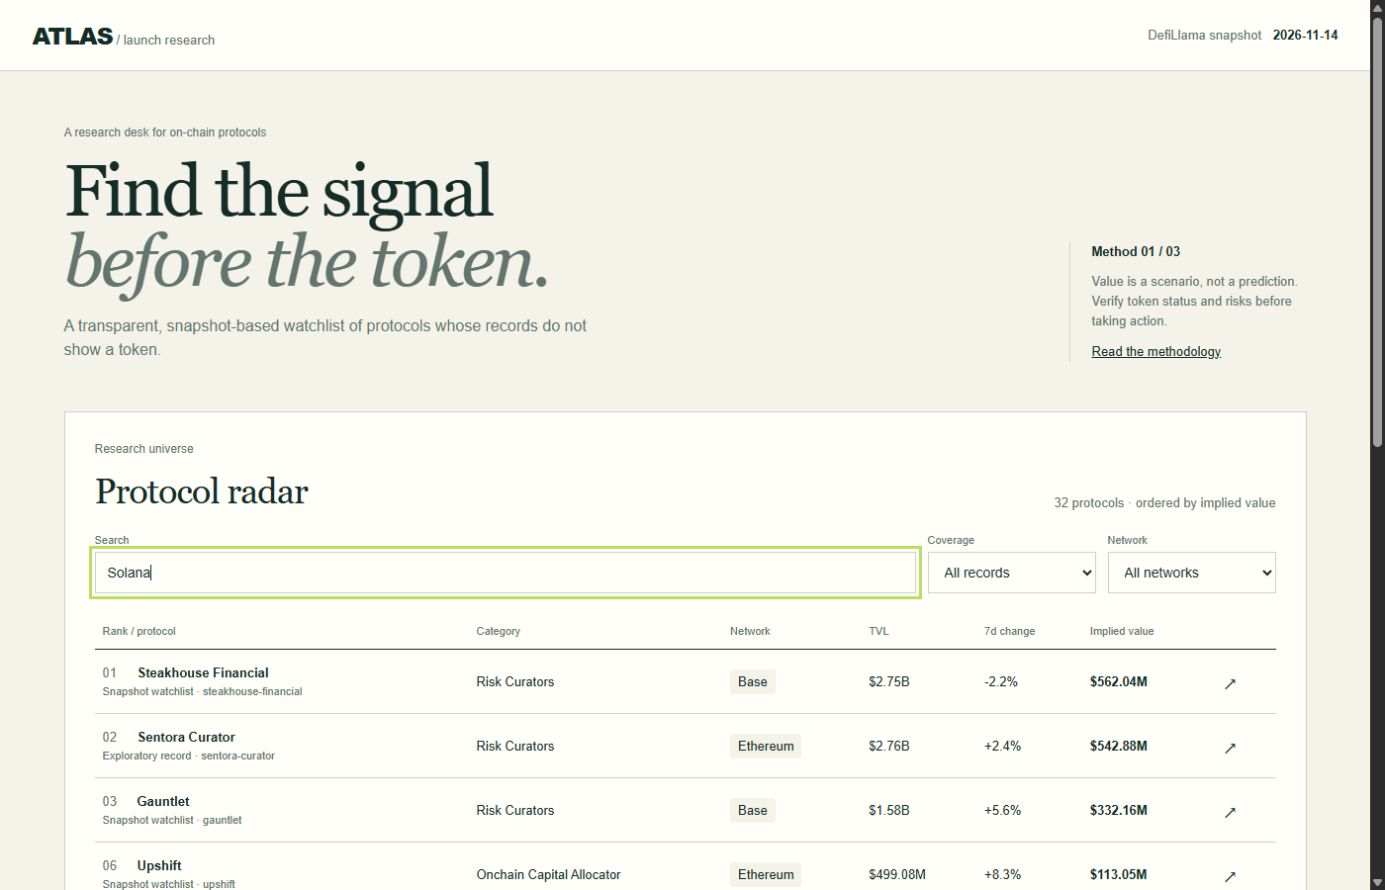
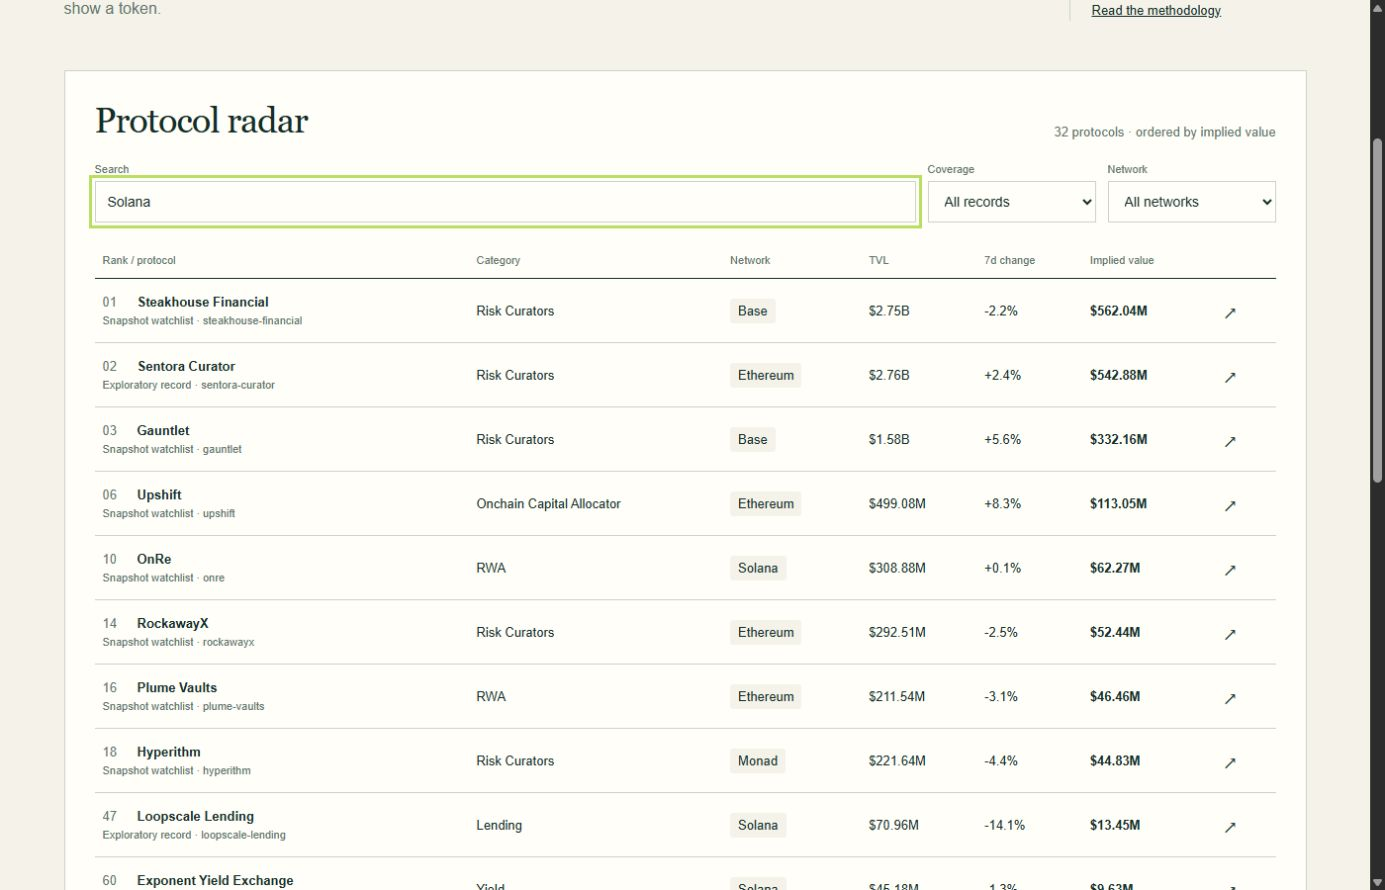
Polish research views and connect submission wallet

diff --git a/dashboard/app.css b/dashboard/app.css
@@ -1,3 +1,5 @@
-/* hallmark: app screen; editorial research desk; manual direction */
+/* Hallmark · shape: app screen · genre: editorial · theme: manual · hero: index · nav: compact · footer: methodology · v2.0.0 */
 /* critique: keep model uncertainty visible and interactions direct. */
-:root{--ink:#152d29;--paper:#f4f2e9;--surface:#fffef8;--muted:#62756e;--line:#cbd4c9;--accent:#b8df62;--dark:#0d2925;--white:#fff;--font:Arial,sans-serif;--serif:Georgia,serif}*{box-sizing:border-box}html,body{margin:0;overflow-x:clip}body{background:var(--paper);color:var(--ink);font-family:var(--font)}a{color:inherit}header{height:72px;border-bottom:1px solid var(--line);display:flex;align-items:center;justify-content:space-between;padding:0 max(32px,calc((100% - 1320px)/2));background:var(--surface)}.brand{font-weight:800;letter-spacing:-1px;font-size:24px;text-decoration:none}.brand span{font-size:13px;font-weight:400;letter-spacing:0;color:var(--muted)}.header-right{font-size:13px;color:var(--muted)}.header-right strong{color:var(--ink);margin-left:8px}main{max-width:1320px;margin:auto;padding:0 32px}.intro{display:grid;grid-template-columns:1fr 240px;gap:40px;padding:55px 0 50px;align-items:end}.label{font-size:12px;color:var(--muted);margin:0 0 16px}h1,h2,p{margin-top:0}h1{font-family:var(--serif);font-size:clamp(48px,5.2vw,76px);line-height:.98;font-weight:400;letter-spacing:-3px;margin-bottom:18px;overflow-wrap:break-word;min-width:0}h1 em{font-weight:400;color:var(--muted)}.lede{font-size:16px;color:var(--muted);max-width:570px;margin:0;line-height:1.5}.intro-side{border-left:1px solid var(--line);padding-left:22px;color:var(--muted);font-size:13px;line-height:1.55}.intro-side span{color:var(--ink);font-weight:bold}.intro-side p{margin:10px 0}.intro-side a{color:var(--ink)}.workspace{background:var(--surface);border:1px solid var(--line);padding:30px}.section-head{display:flex;justify-content:space-between;align-items:end;margin-bottom:24px}h2{font:400 36px/1.1 var(--serif);letter-spacing:-1px;margin-bottom:0}.count{font-size:13px;color:var(--muted)}.toolbar{display:flex;gap:12px;padding-bottom:20px}.toolbar label{font-size:11px;color:var(--muted);display:flex;flex-direction:column;gap:6px}.search{flex:1}input,select{border:1px solid var(--line);background:var(--surface);color:var(--ink);font:14px var(--font);height:42px;padding:0 12px}select{min-width:170px}.table-wrap{overflow:auto}table{width:100%;border-collapse:collapse;text-align:left;white-space:nowrap}th{font-size:11px;color:var(--muted);font-weight:400;padding:12px 8px;border-bottom:1px solid var(--ink)}td{font-size:13px;border-bottom:1px solid var(--line);padding:16px 8px}td:first-child{font-weight:bold}td small{display:block;font-size:11px;font-weight:400;color:var(--muted);margin-top:5px}.rank{color:var(--muted);display:inline-block;width:35px;font-weight:400}.value{font-weight:bold}.tag{background:var(--paper);padding:5px 8px;border-radius:3px}.positive{color:var(--ink)}button{font:inherit;cursor:pointer}.open{border:0;background:none;color:var(--ink);font-size:20px}.more{display:block;margin:20px auto 0;background:var(--dark);color:var(--white);border:0;padding:12px 22px}.method{display:grid;grid-template-columns:1fr 1fr;gap:60px;padding:75px 0;color:var(--muted);line-height:1.7;font-size:14px}.method h2{color:var(--ink);font-size:44px}.formula{font-size:19px;color:var(--ink);border-bottom:1px solid var(--line);padding-bottom:18px}dialog{border:0;max-width:650px;width:calc(100% - 32px);padding:35px;background:var(--surface);color:var(--ink)}dialog::backdrop{background:rgba(13,41,37,.68)}.detail-head{display:flex;justify-content:space-between}.detail-head button{background:none;border:0;color:var(--ink)}.detail-title{font:42px var(--serif);margin:0 0 8px}.metrics{display:grid;grid-template-columns:repeat(3,1fr);gap:15px;border-block:1px solid var(--line);padding:20px 0;margin:25px 0}.metrics span{display:block;color:var(--muted);font-size:11px;margin-bottom:7px}.metrics strong{font-size:19px}.detail-copy{line-height:1.55;font-size:14px;color:var(--muted)}ol{padding-left:20px}.detail-copy li{padding:0 0 12px 5px}button:focus-visible,input:focus-visible,select:focus-visible,a:focus-visible{outline:3px solid var(--accent);outline-offset:3px}@media(max-width:700px){header{padding:0 18px}.header-right{display:none}main{padding:0 16px}.intro{grid-template-columns:1fr;padding:40px 0}.intro-side{display:none}.workspace{padding:18px}.toolbar{flex-wrap:wrap}.search{flex-basis:100%}.toolbar label:not(.search){flex:1}select{min-width:0;width:100%}.method{grid-template-columns:1fr;gap:25px}.metrics{grid-template-columns:1fr 1fr}}
+:root{--ink:#152d29;--paper:#f4f2e9;--surface:#fffef8;--muted:#62756e;--line:#cbd4c9;--accent:#b8df62;--dark:#0d2925;--white:#fcfff8;--overlay:rgba(13,41,37,.68);--font:Arial,sans-serif;--serif:Georgia,serif}*{box-sizing:border-box}html,body{margin:0;overflow-x:clip}body{background:var(--paper);color:var(--ink);font-family:var(--font)}a{color:inherit}header{height:72px;border-bottom:1px solid var(--line);display:flex;align-items:center;justify-content:space-between;padding:0 max(32px,calc((100% - 1320px)/2));background:var(--surface)}.brand{font-weight:800;letter-spacing:-1px;font-size:24px;text-decoration:none}.brand span{font-size:13px;font-weight:400;letter-spacing:0;color:var(--muted)}.header-right{font-size:13px;color:var(--muted)}.header-right strong{color:var(--ink);margin-left:8px}main{max-width:1320px;margin:auto;padding:0 32px}.intro{display:grid;grid-template-columns:1fr 240px;gap:40px;padding:55px 0 50px;align-items:end}.label{font-size:12px;color:var(--muted);margin:0 0 16px}h1,h2,p{margin-top:0}h1{font-family:var(--serif);font-size:clamp(48px,5.2vw,76px);line-height:.98;font-weight:400;letter-spacing:-3px;margin-bottom:18px;overflow-wrap:break-word;min-width:0}h1 em{font-weight:400;color:var(--muted)}.lede{font-size:16px;color:var(--muted);max-width:570px;margin:0;line-height:1.5}.intro-side{border-left:1px solid var(--line);padding-left:22px;color:var(--muted);font-size:13px;line-height:1.55}.intro-side span{color:var(--ink);font-weight:bold}.intro-side p{margin:10px 0}.intro-side a{color:var(--ink)}.workspace{background:var(--surface);border:1px solid var(--line);padding:30px}.section-head{display:flex;justify-content:space-between;align-items:end;margin-bottom:24px}h2{font:400 36px/1.1 var(--serif);letter-spacing:-1px;margin-bottom:0}.count{font-size:13px;color:var(--muted)}.toolbar{display:flex;gap:12px;padding-bottom:20px}.toolbar label{font-size:11px;color:var(--muted);display:flex;flex-direction:column;gap:6px}.search{flex:1}input,select{border:1px solid var(--line);background:var(--surface);color:var(--ink);font:14px var(--font);height:42px;padding:0 12px}select{min-width:170px}.table-wrap{overflow:auto}table{width:100%;border-collapse:collapse;text-align:left;white-space:nowrap}th{font-size:11px;color:var(--muted);font-weight:400;padding:12px 8px;border-bottom:1px solid var(--ink)}td{font-size:13px;border-bottom:1px solid var(--line);padding:16px 8px}td:first-child{font-weight:bold}td small{display:block;font-size:11px;font-weight:400;color:var(--muted);margin-top:5px}.rank{color:var(--muted);display:inline-block;width:35px;font-weight:400}.value{font-weight:bold}.tag{background:var(--paper);padding:5px 8px;border-radius:3px}.positive{color:var(--ink)}button{font:inherit;cursor:pointer}.open{border:0;background:none;color:var(--ink);font-size:20px}.more{display:block;margin:20px auto 0;background:var(--dark);color:var(--white);border:0;padding:12px 22px}.method{display:grid;grid-template-columns:1fr 1fr;gap:60px;padding:75px 0;color:var(--muted);line-height:1.7;font-size:14px}.method h2{color:var(--ink);font-size:44px}.formula{font-size:19px;color:var(--ink);border-bottom:1px solid var(--line);padding-bottom:18px}dialog{border:0;max-width:650px;width:calc(100% - 32px);padding:35px;background:var(--surface);color:var(--ink)}dialog::backdrop{background:var(--overlay)}.detail-head{display:flex;justify-content:space-between}.detail-head button{background:none;border:0;color:var(--ink)}.detail-title{font:42px var(--serif);margin:0 0 8px}.metrics{display:grid;grid-template-columns:repeat(3,1fr);gap:15px;border-block:1px solid var(--line);padding:20px 0;margin:25px 0}.metrics span{display:block;color:var(--muted);font-size:11px;margin-bottom:7px}.metrics strong{font-size:19px}.detail-copy{line-height:1.55;font-size:14px;color:var(--muted)}ol{padding-left:20px}.detail-copy li{padding:0 0 12px 5px}button:focus-visible,input:focus-visible,select:focus-visible,a:focus-visible{outline:3px solid var(--accent);outline-offset:3px}@media(max-width:700px){header{padding:0 18px}.header-right{display:none}main{padding:0 16px}.intro{grid-template-columns:1fr;padding:40px 0}.intro-side{display:none}.workspace{padding:18px}.toolbar{flex-wrap:wrap}.search{flex-basis:100%}.toolbar label:not(.search){flex:1}select{min-width:0;width:100%}.method{grid-template-columns:1fr;gap:25px}.metrics{grid-template-columns:1fr 1fr}}
+
+button:active{transform:translateY(1px)}button:disabled{opacity:.5;cursor:not-allowed}h1,h2{text-wrap:balance}

diff --git a/dashboard/index.html b/dashboard/index.html
@@ -1,9 +1,9 @@
-<!doctype html><html lang="en"><head><meta charset="utf-8"><meta name="viewport" content="width=device-width,initial-scale=1"><title>Atlas | Launch research</title><link rel="stylesheet" href="app.css"></head><body>
-<header><a class="brand" href="#">ATLAS<span> / launch research</span></a><div class="header-right">DefiLlama snapshot <strong id="date">—</strong></div></header>
-<main><section class="intro"><div><p class="label">A research desk for on-chain protocols</p><h1>Find the signal<br><em>before the token.</em></h1><p class="lede">A transparent, snapshot-based watchlist of protocols whose records do not show a token.</p></div><div class="intro-side"><span>Method 01 / 03</span><p>Value is a scenario, not a prediction. Verify token status and risks before taking action.</p><a href="#method">Read the methodology</a></div></section>
-<section class="workspace"><div class="section-head"><div><p class="label">Research universe</p><h2>Protocol radar</h2></div><div id="count" class="count">Loading snapshot</div></div>
+<!doctype html><html lang="en"><head><meta charset="utf-8"><meta name="viewport" content="width=device-width,initial-scale=1"><title>Atlas | Launch research</title><meta name="description" content="Explore a historical protocol snapshot and a transparent launch valuation model."><link rel="stylesheet" href="app.css"></head><body>
+<header><a class="brand" href="#">ATLAS<span> / launch research</span></a><div class="header-right">DefiLlama snapshot <strong id="date">Pending</strong></div></header>
+<main><section class="intro"><div><h1>Find the signal<br>before the token.</h1><p class="lede">A transparent, snapshot-based watchlist of protocols whose records do not show a token.</p></div><div class="intro-side"><span>Method 01 / 03</span><p>Value is a scenario, not a prediction. Verify token status and risks before taking action.</p><a href="#method">Read the methodology</a></div></section>
+<section class="workspace"><div class="section-head"><div><h2>Protocol radar</h2></div><div id="count" class="count">Loading snapshot</div></div>
 <div class="toolbar"><label class="search"><span>Search</span><input id="search" placeholder="Protocol, chain or category" autocomplete="off"></label><label>Coverage<select id="coverage"><option value="all">All records</option><option value="watch">Watchlist only</option><option value="early">Other records</option></select></label><label>Network<select id="chain"><option value="all">All networks</option></select></label></div>
 <div class="table-wrap"><table><thead><tr><th>Rank / protocol</th><th>Category</th><th>Network</th><th>TVL</th><th>7d change</th><th>Implied value</th><th></th></tr></thead><tbody id="rows"></tbody></table></div><div id="empty" hidden>No protocols match these filters.</div><button id="more" class="more">Show more protocols</button></section>
-<section class="workspace comparison"><div class="section-head"><div><p class="label">Market context</p><h2>Recorded tokens</h2></div><div class="count">Separate from the launch radar</div></div><p class="detail-copy">Snapshot market caps are historical observations. These protocols are not ranked as launch candidates.</p><div id="live-list"></div><button id="live-more" class="more">Show more recorded tokens</button></section>
-<section id="method" class="method"><div><p class="label">Read the model</p><h2>A disciplined<br>starting point.</h2></div><div><p class="formula">TVL × 0.25 × maturity × growth</p><p>Maturity ranges from 0.65 to 1 over three years since tracking began. Growth is weekly TVL change clamped to −50% to +100%, divided by 250 and added to 1. Missing growth uses zero; unknown age uses 365 days.</p><p>The watchlist is supplied by the sealed snapshot; other records without a recorded symbol or CoinGecko ID are exploratory. The data is not proof that a token does not exist. There is no live data, investment advice, or promise of an airdrop.</p></div></section></main>
+<section class="workspace comparison"><div class="section-head"><div><h2>Recorded tokens</h2></div><div class="count">Separate from the launch radar</div></div><p class="detail-copy">Snapshot market caps are historical observations. These protocols are not ranked as launch candidates.</p><div id="live-list"></div><button id="live-more" class="more">More recorded tokens</button></section>
+<section id="method" class="method"><div><h2>A disciplined<br>starting point.</h2></div><div><p class="formula">TVL × 0.25 × maturity × growth</p><p>Maturity ranges from 0.65 to 1 over three years since tracking began. Growth is weekly TVL change clamped to −50% to +100%, divided by 250 and added to 1. Missing growth uses zero; unknown age uses 365 days.</p><p>The watchlist is supplied by the sealed snapshot; other records without a recorded symbol or CoinGecko ID are exploratory. The data is not proof that a token does not exist. There is no live data, investment advice, or promise of an airdrop.</p></div></section></main>
 <dialog id="detail"><div class="detail-head"><p class="label">Protocol brief</p><button id="close" aria-label="Close protocol details">Close ×</button></div><div id="detail-content"></div></dialog><noscript>This research dashboard requires JavaScript to display its offline dataset.</noscript><script src="../data.js"></script><script src="app.js"></script><script src="market.js"></script></body></html>
